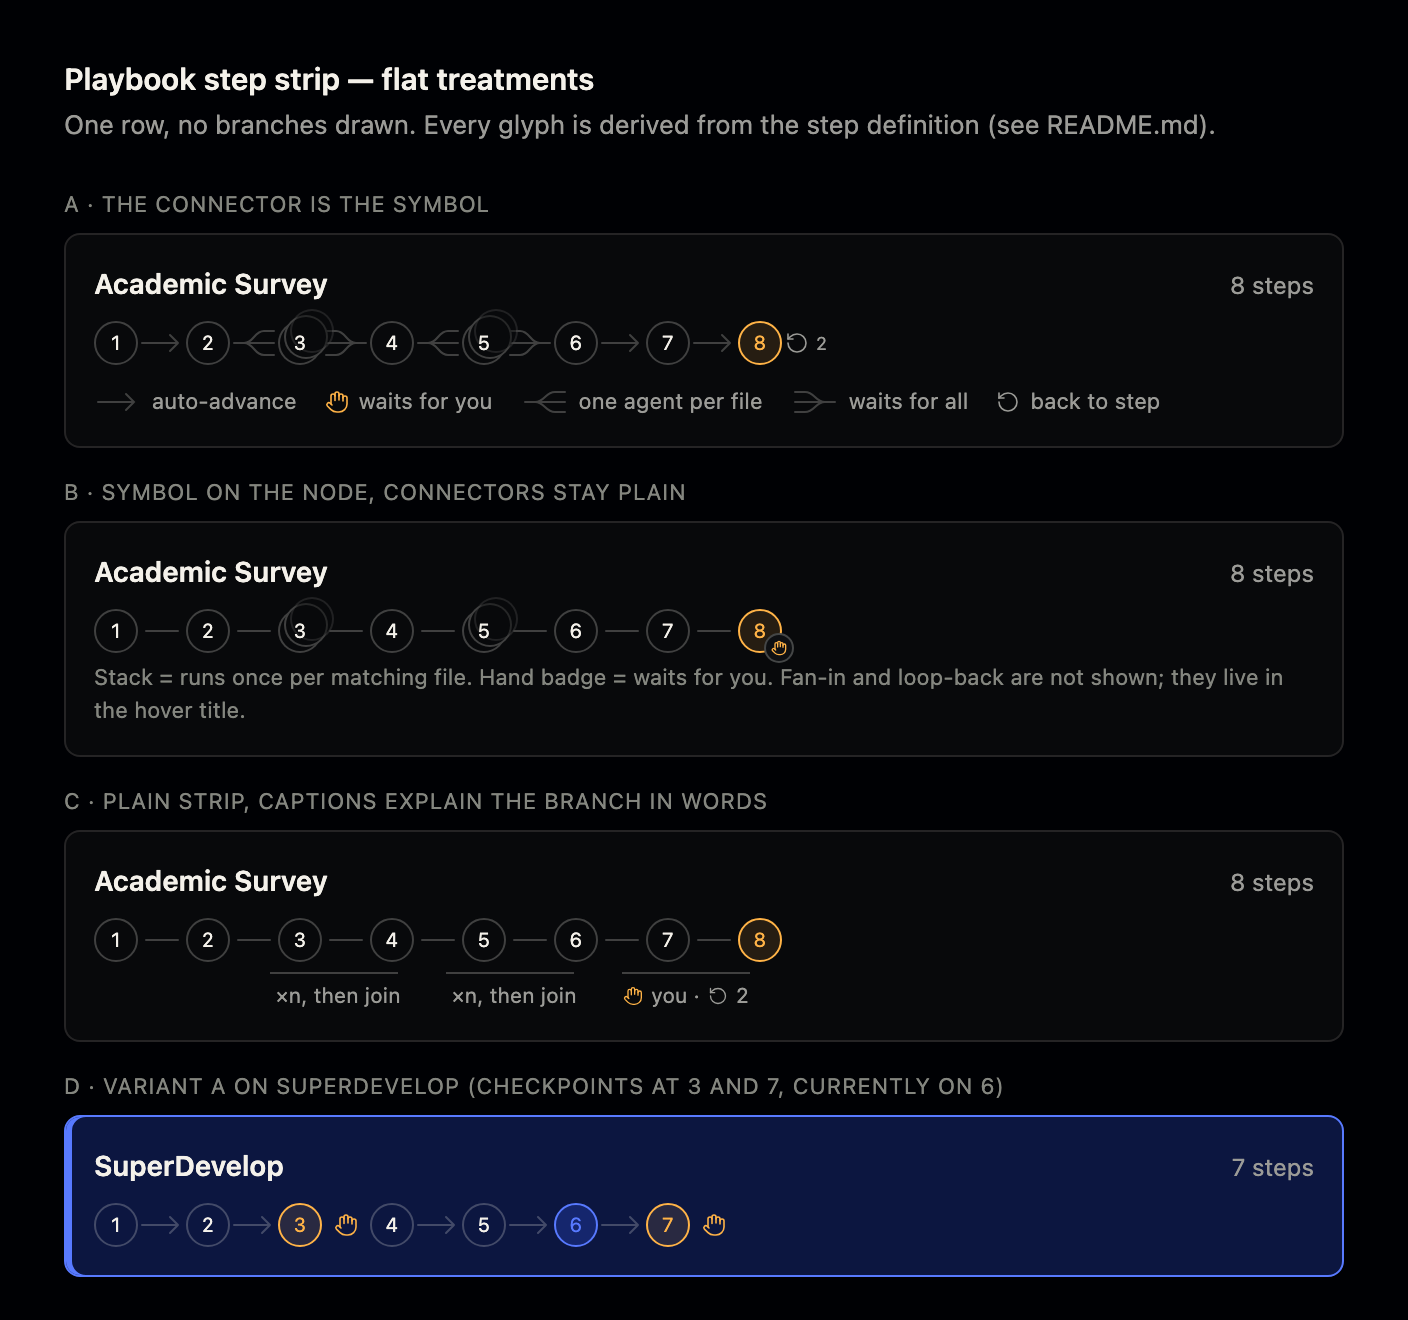
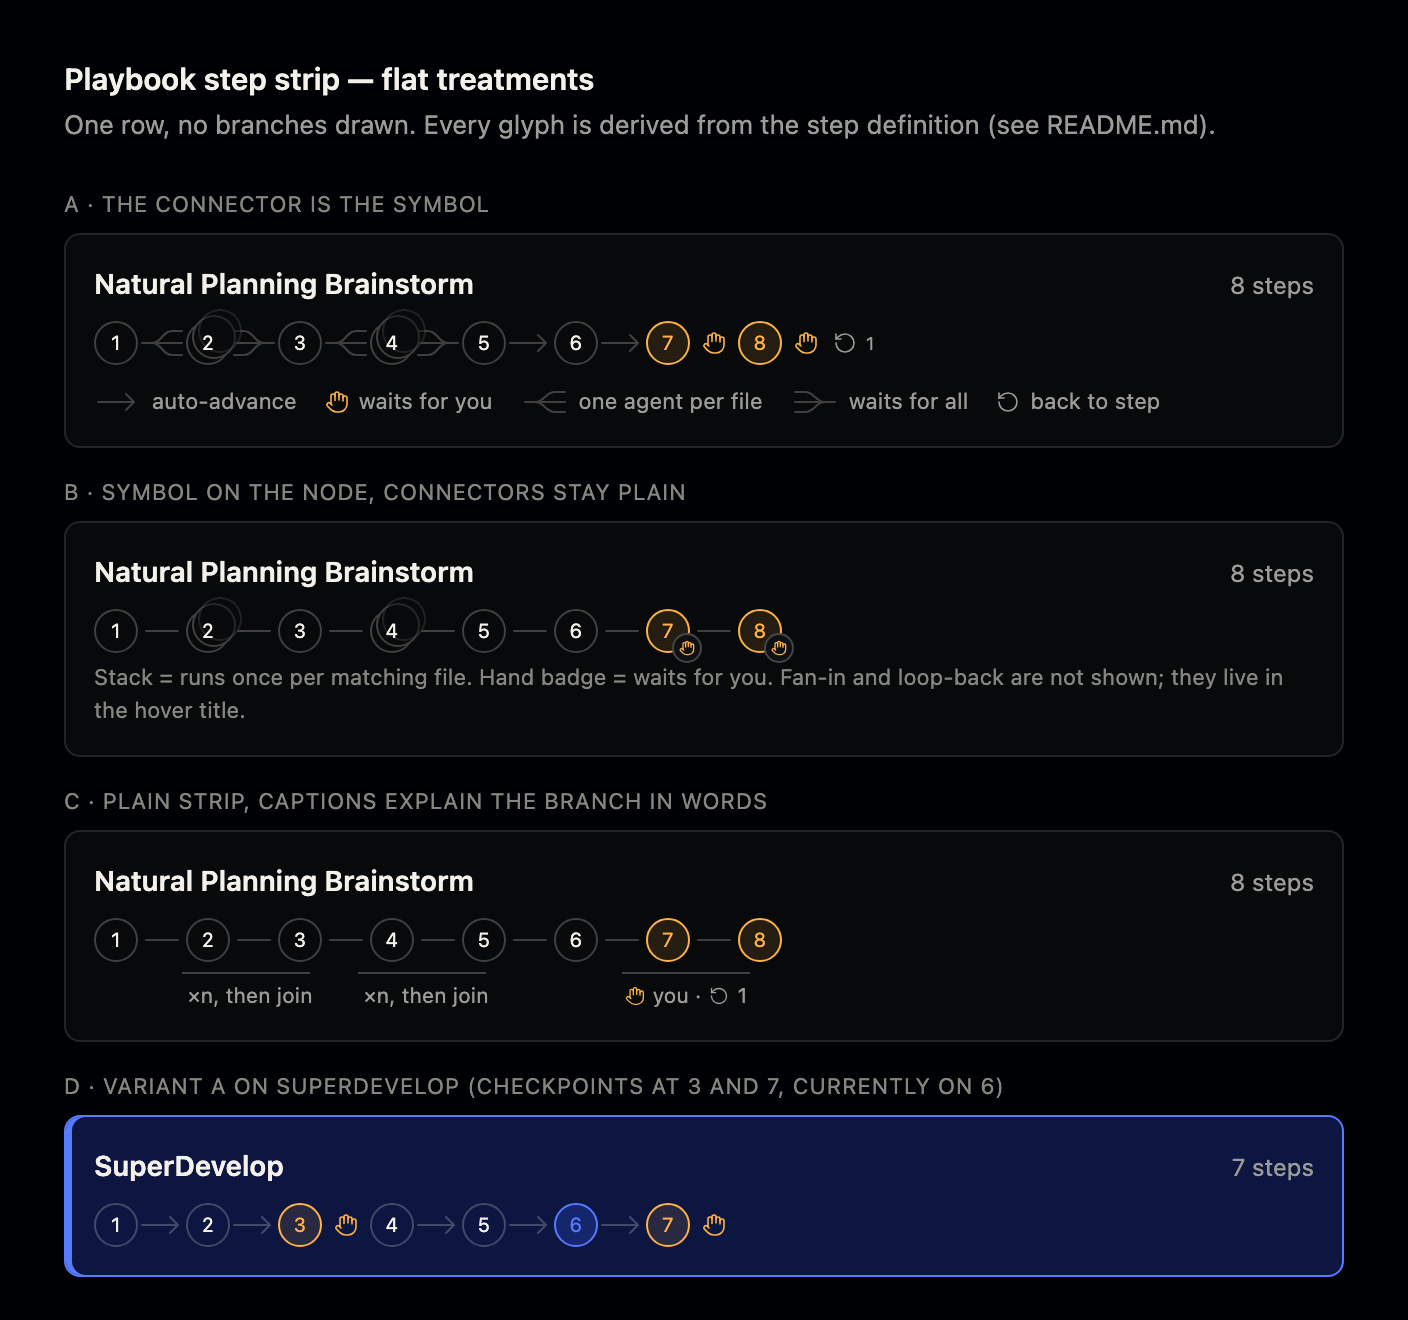
Use a playbook with real checkpoints in the step strip mockup
Academic Survey auto-advances on every step, so drawing its step 8 as a
human checkpoint was wrong. Natural Planning Brainstorm has the same
fan-out shape plus checkpoints at 7 and 8 and the loop back to 1, so the
mockup now uses it and every glyph matches the playbook definition.

diff --git a/docs/ux/playbook-step-strip/mockup.html b/docs/ux/playbook-step-strip/mockup.html
@@ -68,16 +68,16 @@
 
 <p class="variant">A · the connector is the symbol</p>
 <div class="card">
-  <div class="label"><b>Academic Survey</b><span>8 steps</span></div>
+  <div class="label"><b>Natural Planning Brainstorm</b><span>8 steps</span></div>
   <div class="strip">
-    <span class="n">1</span><span class="c"><svg><use href="#arrow"/></svg></span>
-    <span class="n">2</span><span class="c"><svg><use href="#fanout"/></svg></span>
-    <span class="n stk">3</span><span class="c"><svg><use href="#fanin"/></svg></span>
-    <span class="n">4</span><span class="c"><svg><use href="#fanout"/></svg></span>
-    <span class="n stk">5</span><span class="c"><svg><use href="#fanin"/></svg></span>
+    <span class="n">1</span><span class="c"><svg><use href="#fanout"/></svg></span>
+    <span class="n stk">2</span><span class="c"><svg><use href="#fanin"/></svg></span>
+    <span class="n">3</span><span class="c"><svg><use href="#fanout"/></svg></span>
+    <span class="n stk">4</span><span class="c"><svg><use href="#fanin"/></svg></span>
+    <span class="n">5</span><span class="c"><svg><use href="#arrow"/></svg></span>
     <span class="n">6</span><span class="c"><svg><use href="#arrow"/></svg></span>
-    <span class="n">7</span><span class="c"><svg><use href="#arrow"/></svg></span>
-    <span class="n cp">8</span><span class="c loop"><svg><use href="#loop"/></svg>2</span>
+    <span class="n cp">7</span><span class="c hand"><svg><use href="#hand"/></svg></span>
+    <span class="n cp">8</span><span class="c hand"><svg><use href="#hand"/></svg></span><span class="c loop"><svg><use href="#loop"/></svg>1</span>
   </div>
   <div class="legend">
     <span><svg viewBox="0 0 24 14"><path d="M2 7H20M16 3l4 4-4 4"/></svg>auto-advance</span>
@@ -90,15 +90,15 @@
 
 <p class="variant">B · symbol on the node, connectors stay plain</p>
 <div class="card">
-  <div class="label"><b>Academic Survey</b><span>8 steps</span></div>
+  <div class="label"><b>Natural Planning Brainstorm</b><span>8 steps</span></div>
   <div class="strip">
     <span class="n">1</span><span class="c"><svg><use href="#line"/></svg></span>
-    <span class="n">2</span><span class="c"><svg><use href="#line"/></svg></span>
-    <span class="n stk">3</span><span class="c"><svg><use href="#line"/></svg></span>
-    <span class="n">4</span><span class="c"><svg><use href="#line"/></svg></span>
-    <span class="n stk">5</span><span class="c"><svg><use href="#line"/></svg></span>
+    <span class="n stk">2</span><span class="c"><svg><use href="#line"/></svg></span>
+    <span class="n">3</span><span class="c"><svg><use href="#line"/></svg></span>
+    <span class="n stk">4</span><span class="c"><svg><use href="#line"/></svg></span>
+    <span class="n">5</span><span class="c"><svg><use href="#line"/></svg></span>
     <span class="n">6</span><span class="c"><svg><use href="#line"/></svg></span>
-    <span class="n">7</span><span class="c"><svg><use href="#line"/></svg></span>
+    <span class="n cp">7<span class="badge"><svg fill="none" stroke="currentColor" stroke-width="2" stroke-linecap="round" stroke-linejoin="round"><use href="#hand"/></svg></span></span><span class="c"><svg><use href="#line"/></svg></span>
     <span class="n cp">8<span class="badge"><svg fill="none" stroke="currentColor" stroke-width="2" stroke-linecap="round" stroke-linejoin="round"><use href="#hand"/></svg></span></span>
   </div>
   <p class="note">Stack = runs once per matching file. Hand badge = waits for you. Fan-in and loop-back are not shown; they live in the hover title.</p>
@@ -106,7 +106,7 @@
 
 <p class="variant">C · plain strip, captions explain the branch in words</p>
 <div class="card">
-  <div class="label"><b>Academic Survey</b><span>8 steps</span></div>
+  <div class="label"><b>Natural Planning Brainstorm</b><span>8 steps</span></div>
   <div class="strip">
     <span class="n">1</span><span class="c"><svg><use href="#line"/></svg></span>
     <span class="n">2</span><span class="c"><svg><use href="#line"/></svg></span>
@@ -114,16 +114,16 @@
     <span class="n">4</span><span class="c"><svg><use href="#line"/></svg></span>
     <span class="n">5</span><span class="c"><svg><use href="#line"/></svg></span>
     <span class="n">6</span><span class="c"><svg><use href="#line"/></svg></span>
-    <span class="n">7</span><span class="c"><svg><use href="#line"/></svg></span>
+    <span class="n cp">7</span><span class="c"><svg><use href="#line"/></svg></span>
     <span class="n cp">8</span>
   </div>
   <div class="cap">
-    <span class="gap" style="width:88px"></span>
+    <span class="gap" style="width:44px"></span>
     <span style="width:64px"><svg><use href="#fork"/></svg>×n, then join</span>
     <span class="gap" style="width:24px"></span>
     <span style="width:64px"><svg><use href="#fork"/></svg>×n, then join</span>
-    <span class="gap" style="width:24px"></span>
-    <span style="width:64px"><svg style="color:var(--warning)"><use href="#hand"/></svg>you · <svg><use href="#loop"/></svg>2</span>
+    <span class="gap" style="width:68px"></span>
+    <span style="width:64px"><svg style="color:var(--warning)"><use href="#hand"/></svg>you · <svg><use href="#loop"/></svg>1</span>
   </div>
 </div>
 

diff --git a/docs/ux/playbook-step-strip/README.md b/docs/ux/playbook-step-strip/README.md
@@ -22,10 +22,12 @@ falls out of `NormalizedStep` as it exists today:
 | hand | `auto_advance_default = false` | pauses for you; drawn **after** the step, since that is where the pause is. The last step gets a trailing hand. |
 | fan-out into a stacked node | any input with `mode = "each"` | the step runs once per matching file, one agent each |
 | fan-in | any input with `mode = "complete"` | the step waits for the whole collection |
-| loop-back | an output path that an earlier step takes as input | Academic Survey step 8 writes `ticket.md`, which step 2 reads |
+| loop-back | an output path that an earlier step takes as input | Natural Planning Brainstorm step 8 writes `ticket.md`, which step 1 reads |
 
-Academic Survey exercises all five: fan-out at 3 and 5, fan-in at 4 and 6, a
-checkpoint and a loop-back at 8. SuperDevelop only has checkpoints (3 and 7).
+Natural Planning Brainstorm exercises all five: fan-out at 2 and 4, fan-in at 3
+and 5, checkpoints at 7 and 8, and a loop-back from 8 to 1. Academic Survey has
+the same fan-out shape but every step auto-advances. SuperDevelop only has
+checkpoints (3 and 7).
 
 ## Variants
 
